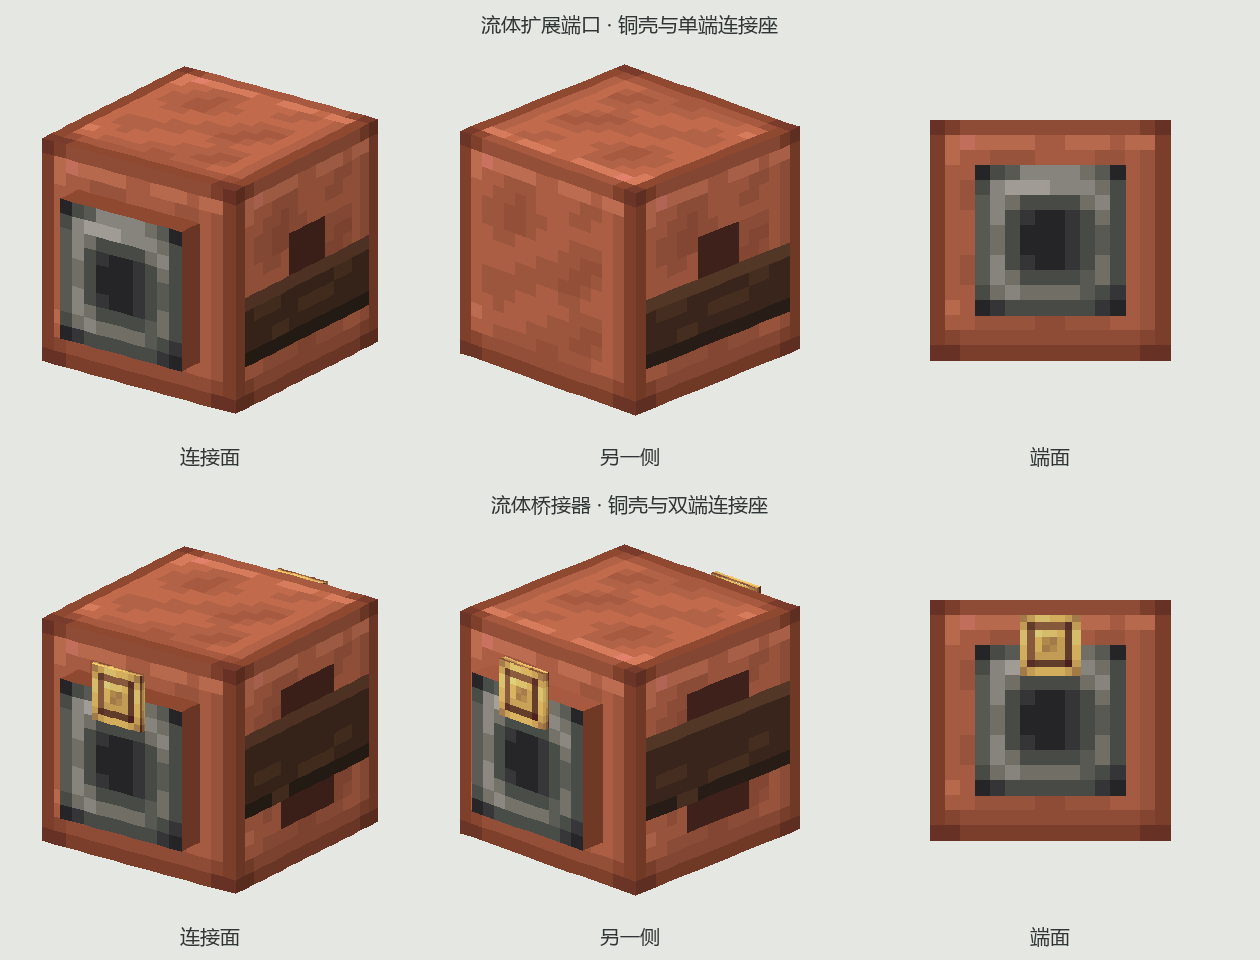
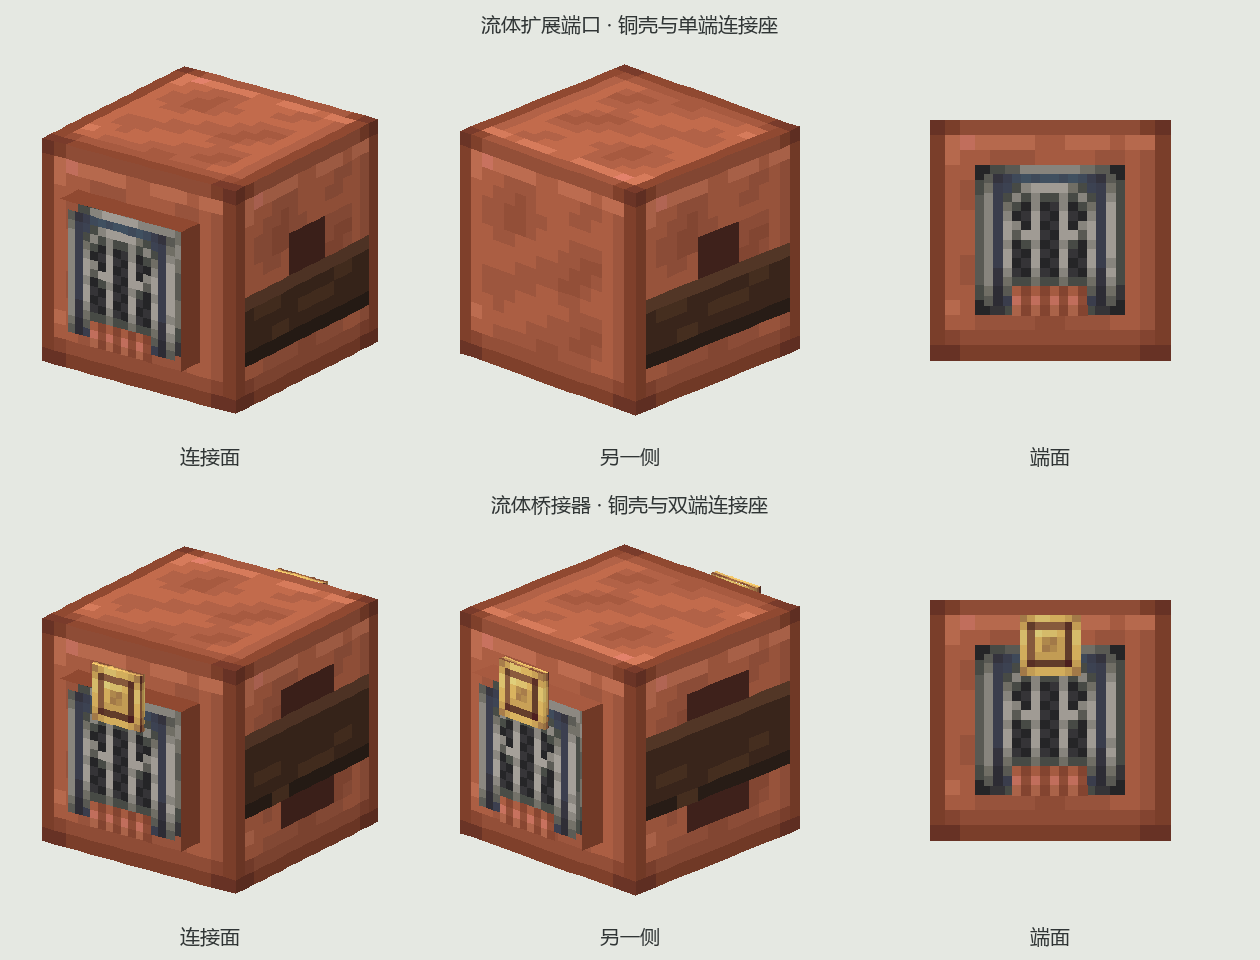
Use native Create stock link connector texture without repainting

diff --git a/tools/create-fluid-access-art.py b/tools/create-fluid-access-art.py
@@ -110,7 +110,11 @@ def main():
                 # Native pipe mouth at the surface; the narrow collar is inset into the case.
                 # Connected-like raised square connector; no additional pipe flange.
                 lo,hi=([3,3,16],[13,13,18]) if end=='south' else ([3,3,-2],[13,13,0])
-                elements.append(cube('raised_socket_'+end,lo,hi,'socket'))
+                seat=cube('raised_socket_'+end,lo,hi,'socket')
+                # Direct reference to the original stock-link connector region (32x32 atlas).
+                # Preserve its complete pixel layout and native colors, without repainting.
+                seat['faces'][end]={'texture':'#stock_link','uv':[0,0,8,8]}
+                elements.append(seat)
             if bridge:
                 # Small native smart-pipe filter panel at the existing interaction position.
                 source=json.loads(archive.read('assets/create/models/block/smart_fluid_pipe/block.json'))
@@ -133,6 +137,7 @@ def main():
                         e['faces']={({'north':'south','south':'north'}.get(s,s)):f for s,f in e['faces'].items()}
                     elements.append(e)
             textures={'body':f'ccd:block/fluid_access/{material}','socket':f'ccd:block/fluid_access/{material}_socket',
+                      'stock_link':'create:block/stock_link',
                       'band':'ccd:block/fluid_access/'+('bridge_band' if bridge else 'copper_band'),
                       'pipe':'create:block/pipes','filter':'create:block/smart_pipe_2','particle':'#body'}
             model={'parent':'minecraft:block/block','ambientocclusion':False,'textures':textures,'elements':elements}
@@ -146,7 +151,7 @@ def main():
     atlas.save(OUT/'textures-source.png'); atlas.resize((1024,256),Image.Resampling.NEAREST).save(OUT/'textures.png')
     save(OUT/'model.meta.json',{'reference':'Connected full casing, raised end sockets and broad side band; Create stock-link metal shading and native filter',
          'textures':'CCD hand-drawn 16x16 copper panels, dark copper band and grey metal socket seats',
-         'upstreamResources':['create:block/smart_pipe_2'],
+         'upstreamResources':['create:block/stock_link (original connector UV 0,0,8,8)','create:block/smart_pipe_2'],
          'connectedAssetsCopied':False,'preview':'actual model geometry, offline lighting; no client validation'})
 
 def render_preview(models,archive):
